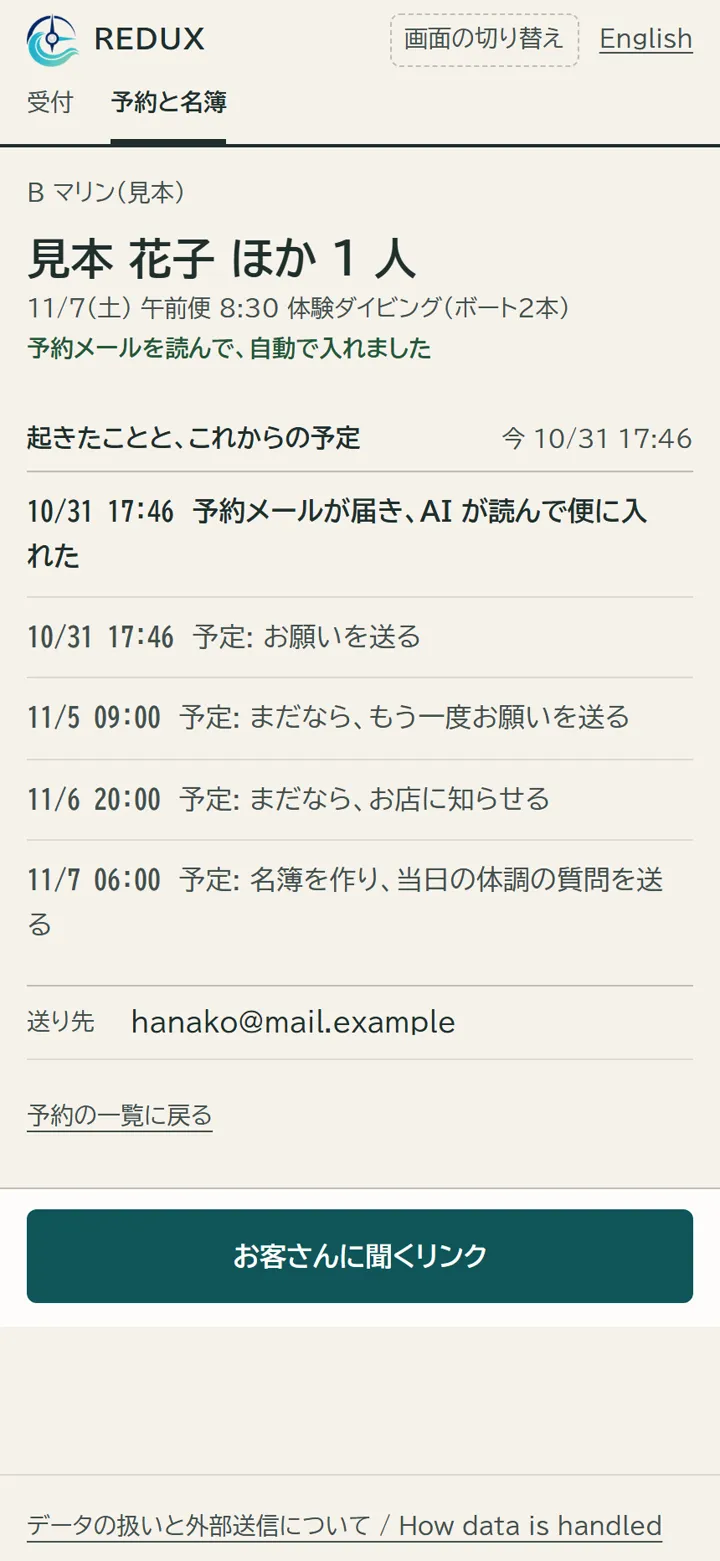
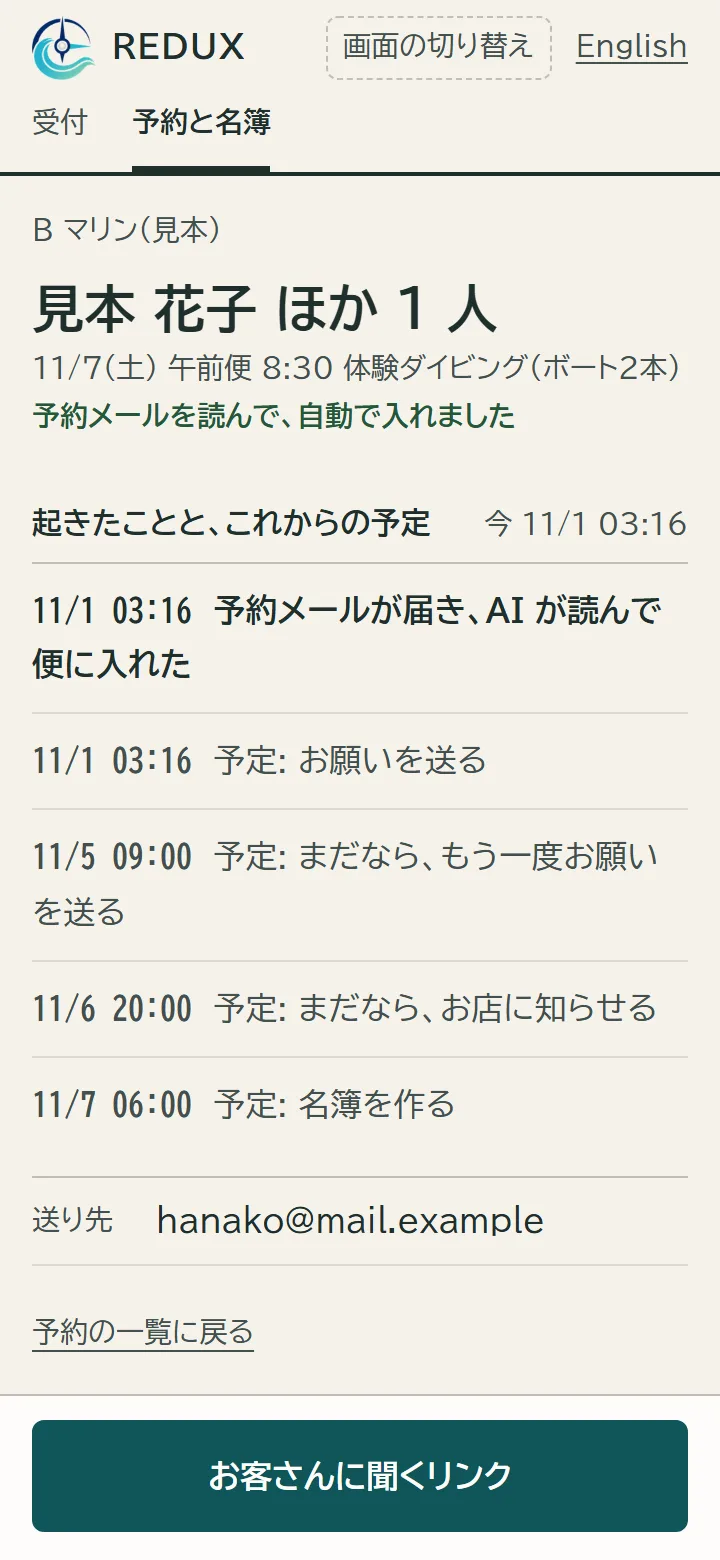
feat: start trial shops with paper health questions and align the shop page
Trial shops were told health questions stay on paper, but the shop page
said guests answer them in the app. tools/shop.mjs paper seeds a new
shop's roster with shop.health = paper; paper shops also refuse SpO2
entries and no longer promise the morning health question or person
links for health. The shop page text and five screenshots now show a
paper shop, and the 30-second CM is off the page until it is re-cut.

diff --git a/shops.html b/shops.html
@@ -21,7 +21,7 @@
   <span class="brand__logo" aria-hidden="true"></span>
   <span class="brand__name">REDUX<small>ダイビングショップの名簿</small></span>
 </div>
-<nav class="lp-nav" aria-label="このページの中"><a href="#steps">使い方</a><a href="#cm">動画</a><a href="#terms">試用の条件</a><a href="#faq">よく聞かれること</a></nav>
+<nav class="lp-nav" aria-label="このページの中"><a href="#steps">使い方</a><a href="#terms">試用の条件</a><a href="#faq">よく聞かれること</a></nav>
 <div class="bar__end"><a class="lp-btn lp-btn--sm" href="mailto:trial@reduxdive.com?subject=REDUX%20%E8%A9%A6%E7%94%A8%E3%82%92%E7%94%B3%E3%81%97%E8%BE%BC%E3%81%BF%E3%81%BE%E3%81%99&amp;body=%E3%81%8A%E5%BA%97%E3%81%AE%E5%90%8D%E5%89%8D%EF%BC%9A%0D%0A%E4%BA%88%E7%B4%84%E3%83%A1%E3%83%BC%E3%83%AB%E3%81%8C%E5%B1%8A%E3%81%8F%E3%82%A2%E3%83%89%E3%83%AC%E3%82%B9%EF%BC%9A%0D%0A">申し込む</a></div>
 </header>
 
@@ -34,7 +34,7 @@
       <p class="lp-lede">予約メールと紙の申込書を AI が読み、条例の 13 項目の名簿に入れます。お店がするのは、印の付いた所を確かめることです。</p>
       <div class="lp-ctas">
         <a class="lp-btn" href="mailto:trial@reduxdive.com?subject=REDUX%20%E8%A9%A6%E7%94%A8%E3%81%AE%E7%94%B3%E3%81%97%E8%BE%BC%E3%81%BF&amp;body=%E3%81%8A%E5%BA%97%E3%81%AE%E5%90%8D%E5%89%8D%EF%BC%9A%0D%0A%E4%BA%88%E7%B4%84%E3%83%A1%E3%83%BC%E3%83%AB%E3%81%8C%E5%B1%8A%E3%81%8F%E3%82%A2%E3%83%89%E3%83%AC%E3%82%B9%EF%BC%9A%0D%0A">メールで試用を申し込む</a>
-        <a class="lp-btn lp-btn--ghost" href="#cm">30 秒の動画を見る</a>
+        <a class="lp-btn lp-btn--ghost" href="#steps">使い方を見る</a>
       </div>
       <p class="lp-send">送るのは、お店の名前と予約メールが届くアドレスだけ。宛先は <span class="lp-addr">trial@reduxdive.com</span></p>
       <p class="lp-terms">試用は <b>0</b> 円・<b>1</b> か月・先着 <b>3</b> 店</p>
@@ -55,7 +55,7 @@
 
 <section class="lp-stats" aria-label="数字で見る">
   <div class="lp-wrap lp-stats__in">
-    <div class="lp-stat"><p class="lp-stat__n">13<small>項目</small></p><p class="lp-stat__h">条例の 13 項目の名簿</p><p class="lp-stat__sub">名前・住所などは AI、潜水場所とガイドはお店、健康はお客さんが入れる（施行規則 第 30 条）</p></div>
+    <div class="lp-stat"><p class="lp-stat__n">13<small>項目</small></p><p class="lp-stat__h">条例の 13 項目の名簿</p><p class="lp-stat__sub">名前・住所などは AI、潜水場所とガイドはお店、健康は今まで通り紙の申込書（施行規則 第 30 条）</p></div>
     <div class="lp-stat"><p class="lp-stat__n">10<small>秒ほど</small></p><p class="lp-stat__h">1 件を AI が読む時間</p><p class="lp-stat__sub">予約メール・C カード・申込書の見本 16 件で 4〜10 秒。読めない所には印が付く</p></div>
     <div class="lp-stat"><p class="lp-stat__n">0<small>円</small></p><p class="lp-stat__h">試用は 1 か月、無料</p><p class="lp-stat__sub">先着 3 店まで。お店が見るのは、印の付いた所だけ</p></div>
   </div>
@@ -78,7 +78,7 @@
     <figure class="lp-shot"><img src="assets/lp/flow.webp" width="360" height="780" loading="lazy" alt="予約メールを AI が読み、便に入れたあとの流れの画面"><figcaption>読んで入れたあとの流れ</figcaption></figure>
   </section>
   <section class="lp-step">
-    <div><h2 class="lp-h2"><span class="lp-n">2</span>足りない所だけ、お客さんに聞く</h2><p>住所や生年月日が足りない人には、REDUX からお願いのメールが届きます。健康の質問は、お客さん本人が答えます。</p></div>
+    <div><h2 class="lp-h2"><span class="lp-n">2</span>足りない所だけ、お客さんに聞く</h2><p>住所や生年月日が足りない人には、REDUX からお願いのメールが届きます。健康の質問は、今まで通り紙の申込書で聞きます。</p></div>
     <figure class="lp-shot"><img src="assets/lp/ask.webp" width="360" height="780" loading="lazy" alt="お客さんがリンクから足りない項目を入れる画面"><figcaption>お客さんが開く画面</figcaption></figure>
   </section>
 </div>
@@ -94,17 +94,13 @@
     <figure class="lp-shot"><img src="assets/lp/paper.webp" width="360" height="780" loading="lazy" alt="条例の 13 項目の潜水者名簿の画面"><figcaption>潜水者名簿（見本の名前）</figcaption></figure>
   </section>
   <section class="lp-step">
-    <div><h2 class="lp-h2"><span class="lp-n">5</span>船の書類も、同じ名簿から</h2><p>乗船者名簿とダイビング計画、診断書が要る人の一覧が、名簿から出ます。同じ名簿から出るので、もう一度書く必要はありません。</p></div>
+    <div><h2 class="lp-h2"><span class="lp-n">5</span>船の書類も、同じ名簿から</h2><p>乗船者名簿とダイビング計画、診断書が要る人の一覧が、名簿から出ます。同じ名簿から出るので、もう一度書く必要はありません。診断書が要る人の一覧は、試用では年齢の決まりから出します。健康の質問で「はい」がある人は、申込書で確かめてください。</p></div>
     <div class="lp-pair">
       <figure class="lp-shot"><img src="assets/lp/manifest.webp" width="360" height="780" loading="lazy" alt="乗船者名簿の画面"><figcaption>乗船者名簿</figcaption></figure>
       <figure class="lp-shot"><img src="assets/lp/medical.webp" width="360" height="780" loading="lazy" alt="診断書が要る人の一覧の画面"><figcaption>診断書の一覧</figcaption></figure>
     </div>
   </section>
 
-  <section class="lp-cm" id="cm">
-    <h2 class="lp-h3">30 秒で見る</h2>
-    <video controls preload="none" playsinline width="1280" height="720" poster="assets/lp/cm-poster.jpg" src="assets/lp/cm.mp4"></video>
-  </section>
 
   <section class="lp-facts" id="terms">
     <h2 class="lp-h3">試用の条件</h2>
@@ -120,10 +116,10 @@
   <section class="lp-faq" id="faq">
     <h2 class="lp-h3">よく聞かれること</h2>
     <details><summary>始めるのに、どれくらい手間がかかりますか</summary><p>予約メールの転送の設定だけです。手順はこちらから送ります。約 10 分です。</p></details>
-    <details><summary>お客さんの健康の答えは、AI に送られますか</summary><p>送りません。健康の答えは名簿に保存しますが、AI には送りません。申込書の写真も、健康の欄を塗ってから送ります。</p></details>
+    <details><summary>お客さんの健康の答えは、AI に送られますか</summary><p>試用では健康の質問を今まで通り紙の申込書で聞き、答えは REDUX に入れないので、AI には送りません。申込書の写真は、健康の欄に黒い四角を置いてから AI に送ります。斜めに撮ると四角がずれることがあるので、送る前にお店が画面で確かめてください。健康の情報が見えたと AI が答えた写真は、その読み取りを使いません。</p></details>
     <details><summary>名簿は誰が見られますか</summary><p>名簿の画面を開けるのは、お店の人だけです。不具合を直すときに、運営者が中身に触れることがあります。</p></details>
     <details><summary>AI が読み間違えたら、どうなりますか</summary><p>自信のない所には印が付き、お店が確かめるまで名簿の値として扱いません。直した所は記録に残ります。</p></details>
-    <details><summary>どの AI を使っていますか</summary><p>米国 Anthropic の AI です。送るのは予約メールの文と申込書の写真で、健康の部分は外してから送ります。</p></details>
+    <details><summary>どの AI を使っていますか</summary><p>米国 Anthropic の AI です。送るのは予約メールの文と申込書の写真です。健康にかかわる所は外したり隠したりしてから送りますが、取りこぼすことがあるので、送る前の画面でお店が確かめてください（確かめ方は上の答えのとおり）。</p></details>
   </section>
 </div>
 

diff --git a/js/auto-flow.js b/js/auto-flow.js
@@ -65,6 +65,9 @@
   const dueText = (due) => `${Number(due.slice(5, 7))}/${Number(due.slice(8, 10))} ${due.slice(11)}`;
   const ADDED_JA = { ai: '予約メールが届き、AI が読んで便に入れた', guest: 'お客さんが自社の予約フォームから入れた', staff: 'お店が予約を入れた', system: '予約が入った' };
   const PLAN_JA = { request: 'お願いを送る', remind: 'まだなら、もう一度お願いを送る', eve: 'まだなら、お店に知らせる', morning: '名簿を作り、当日の体調の質問を送る' };
+  /* 健康の質問を紙で聞くお店は、当日の朝の体調の質問を送らない（roster-auto.js の needToday が空）。予定の文もそれに合わせる */
+  const PAPER_MORNING = { plan: '名簿を作る', done: '名簿を作った' };
+  const planJa = (s, kind) => (kind === 'morning' && R.rosterCore.paperOf(s) ? PAPER_MORNING.plan : PLAN_JA[kind]);
   function outLine(o) {
     const what = A().isPartnersNotice(o) ? 'お店に知らせた: 相乗りのお店の確認待ち（乗り合いの画面で見る）'
       : o.kind === 'staff' ? 'お店に知らせた: 名簿の項目が届いていない人がいる'
@@ -93,7 +96,7 @@
     const lines = items.map(x => (x.kind === 'added'
       ? el('li', { class: 'bk' }, el('span', { class: 'bk__name' }, el('span', { class: 'fig', text: jstOf(x.at) }), `　${ADDED_JA[x.who] || ADDED_JA.system}`))
       : x.kind === 'out' ? outLine(x.out)
-        : el('li', { class: 'bk bk--next' }, el('span', { class: 'bk__name' }, el('span', { class: 'fig', text: dueText(x.due) }), `　予定: ${PLAN_JA[x.job.kind]}`))));
+        : el('li', { class: 'bk bk--next' }, el('span', { class: 'bk__name' }, el('span', { class: 'fig', text: dueText(x.due) }), `　予定: ${planJa(s, x.job.kind)}`))));
     return [
       ...ui.head(people.length > 1 ? `${lead} ほか ${people.length - 1} 人` : lead, trip ? `${ui.md(trip.date)} ${ui.tripLabel(trip)}` : ''),
       el('div', { class: 'sheet' },
@@ -183,7 +186,8 @@
     const late = waiting && j.due <= R.nowJst();
     return boardLine({
       at: withDay ? dueText(j.due) : j.due.slice(11).replace(/^0/, ''), next: waiting && !late,
-      name: waiting ? `${PLAN_JA[j.kind]}（予定）` : j.status === 'skipped' ? 'そろっていたので送らなかった' : DONE_JA[j.kind],
+      name: waiting ? `${planJa(state, j.kind)}（予定）` : j.status === 'skipped' ? 'そろっていたので送らなかった'
+        : j.kind === 'morning' && R.rosterCore.paperOf(state) ? PAPER_MORNING.done : DONE_JA[j.kind],
       st: late ? ['wait', '・待っている'] : waiting ? null : ['ok', j.status === 'skipped' ? '✓ そろった' : '✓ 済んだ'],
       meta: outMeta(state, ui, r), extra: toFlow(ui, r.booking.id)
     });

diff --git a/js/booking.js b/js/booking.js
@@ -239,7 +239,7 @@
     const pick = (on) => () => {
       const r = save('core.setHealthPaper', { paper: on, at: now() });
       notice = r.error ? { kind: 'warn', text: '切り替えられませんでした' }
-        : { kind: 'ok', text: on ? '健康の質問は、紙の申込書で聞きます。お客さんのリンクと自動の連絡では聞きません。' : '健康の質問を、お客さんのリンクで聞きます。' };
+        : { kind: 'ok', text: on ? '健康の質問は、紙の申込書で聞きます。お客さんのリンクと自動の連絡では聞かず、血中酸素もここには入れません。' : '健康の質問を、お客さんのリンクで聞きます。' };
       render();
     };
     const opt = (on, text) => el('button', { class: 'ptab', type: 'button', 'aria-pressed': String(paper === on), text, onclick: pick(on) });
@@ -422,7 +422,7 @@
         el('p', { class: 'sheet__title' }, 'お客さんに送るリンク', el('small', { text: '予約 1 件に 1 つ' })),
         url ? el('p', { class: 'url', text: url }) : null,
         el('p', { class: 'sheet__note', text: real
-          ? `LINE やメールに貼って送ります。お客さんはログインなしで開き、この予約の人の「まだ」の所だけを入れられます。健康の質問は、そこから 1 人ずつのリンクで本人が答えます。${mine && mine.expiresOn ? `${md(mine.expiresOn)} まで使えます。` : ''}作り直すと、前に送ったリンクは開けなくなります。`
+          ? `LINE やメールに貼って送ります。お客さんはログインなしで開き、この予約の人の「まだ」の所だけを入れられます。${C().paperOf(s) ? '健康の質問は、紙の申込書で聞きます。' : '健康の質問は、そこから 1 人ずつのリンクで本人が答えます。'}${mine && mine.expiresOn ? `${md(mine.expiresOn)} まで使えます。` : ''}作り直すと、前に送ったリンクは開けなくなります。`
           : 'LINE やメールに貼って送ります。開いた人は、この予約の人の「まだ」の所だけを入れられます。試作では、この端末の中だけで開けます。' })),
       mine && mine.error ? el('p', { class: 'flag flag--warn', role: 'status', text: mine.error === 404
         ? 'サーバーにまだこの予約が届いていません。少し待ってから、もう一度押してください。' : 'リンクを作れませんでした。もう一度押してください。' }) : null,

diff --git a/js/day-roster.js b/js/day-roster.js
@@ -225,6 +225,7 @@
 
   /* ---------- 血中酸素（県警の体調チェック表。判定は roster-day.js、数値と言葉は data-sipe.js） ---------- */
   function sipeRow(tripId, ui) {
+    if (C().paperOf(R.rosterStore.get())) return null;   // 紙のお店は血中酸素を入れない（roster-day.js の setSpo2）
     const g = D().sipeRows(R.rosterStore.get(), tripId);
     if (!g || !g.rows.length) return null;
     return el('div', { class: 'pickrow pickrow--act' },
@@ -306,6 +307,7 @@
   function renderSpo2({ tripId, ui }) {
     const g = D().sipeRows(R.rosterStore.get(), tripId);
     if (!g) return [...ui.head('血中酸素'), el('p', { class: 'errors', text: 'この便が見つかりません。' }), ui.back()];
+    if (C().paperOf(R.rosterStore.get())) return [...ui.head('血中酸素'), el('p', { class: 'sheet__note', text: '健康の質問を紙の申込書で聞くお店なので、血中酸素はここには入れません。測った数値は紙に残してください。' }), ui.back()];
     const { trip } = g;
     if (tripId !== spo2BadTrip) { spo2Bad = {}; spo2BadTrip = tripId; }
     if (g.shown >= S().SPO2_DIVES) thirdTrip = tripId;   // 3 本目の数値を消しても、入力の途中で欄ごと消さない

diff --git a/js/roster-day.js b/js/roster-day.js
@@ -99,6 +99,8 @@
   function setSpo2(state, { id, dive, side, value, at }) {
     const p = state.people.find(x => x.id === id);
     if (!p) throw new Error(`setSpo2: 人が見つからない (${id})`);
+    /* 健康の質問を紙で聞くお店（試用の形）は、血中酸素も名簿に入れない（健康の数値を預からない。決定ログ 2026-11-01 trial-health-paper） */
+    if (C().paperOf(state)) throw new Error('setSpo2: 紙のお店は血中酸素を入れない');
     const booking = state.bookings.find(b => b.id === p.bookingId);
     if (p.health.heldBy || !booking || C().isPartnerBooking(booking)) throw new Error('setSpo2: 乗り合いの他のお店のお客さんの数値は、この店に入れない');
     if (!Number.isInteger(dive) || dive < 1 || dive > S().SPO2_DIVES) throw new Error(`setSpo2: dive は 1〜${S().SPO2_DIVES} (${dive})`);

diff --git a/spec/architecture.md b/spec/architecture.md
@@ -178,3 +178,4 @@
 | 2026-11-01 reply-to-per-shop | 返信先（Reply-To）はお店の行（shops.reply_to、migration 0010）に持つ。行が空のとき、一覧が 1 店だけなら secret の REPLY_TO、2 店以上なら付けない。形の合わない値は空に読む（行は捨てない） | 全体の点検 2026-11-01（ザク HIGH）。REPLY_TO を全店に付けていたので、2 店目からお客さんの返信（体調を含む）が別のお店に届いた。却下: 空の店も REPLY_TO に落とす（他店に流れる）・形が合わない行を例外にする（打ち間違いで全店が止まる） | 有: test/shops.test.mjs（返信先の選び方・2 店の Cron）・test/d1-sql.test.mjs（0010 と tools の SQL） |
 | 2026-11-01 health-counts-failures | Cron は 1 回ごとの失敗数（failed・backupFailed）を cron:last に書き、公開の /api/health は 0 でない間 503（本文は数と why だけ）。全店が失敗した回も数を書く。落ちた回は書かない | 全体の点検 2026-11-01（ジン・シュウ HIGH）。一部の失敗でも印が新しくなり、外の見張りが鳴らなかった。却下: 連続 N 回で 503（1 店の運用で遅れる）・失敗した店の名前を本文に出す（公開の口に出さない） | 有: test/backup.test.mjs（health の 4 本と cronHealth） |
 | 2026-11-01 offboard-tool | 試用をやめたお店の後始末は tools/offboard.mjs が CSV・D1 の消す文・KV の消すキーを出し、人が実行する。shops の行を最初に消し、daily_counts の api は鍵の id 経由で消す。D1 の Time Travel（最大 30 日）は消せないので、やめた日のうちに消す（そうすれば 30 日で控えも全部なくなり、shops.html の約束に収まる） | 全体の点検 2026-11-01（ジン・シュウ・法令 HIGH）。約束の CSV 渡しと 30 日の消去を実行する道具が無かった。出すだけは restore.mjs・shop.mjs の流儀で、消す操作は取り消せない。却下: 道具が wrangler を直接呼ぶ・shops の行を最後に消す（Cron が警報を出し KV にまた書く） | 有: test/offboard.test.mjs（覆い・2 店の SQL・KV の消すキー） |
+| 2026-11-01 trial-health-paper | 試用のお店は健康の質問を紙の申込書で始める。tools/shop.mjs paper が、名簿がまだ無いお店に紙の印（shop.health = paper）と切り替えの記録だけの名簿を置く（ON CONFLICT DO NOTHING で、もうある名簿は消さない）。見本の default には使わない。紙のお店では、お店が測る血中酸素も名簿に入れない（roster-day.js の setSpo2 が断り、画面は欄を出さない。健康の数値を預からないため）。shops.html の文と絵（名簿・お客さんの画面・診断書・流れ）も紙のお店の設定で撮り直した（健康の答えは REDUX に入れない）。予定の文（auto-flow.js）と予約のリンクの説明（booking.js）も紙のお店では健康を聞かない言い方にした。30 秒の CM は c4 にアプリで健康を聞く画面が映るので、紙のお店の画面で作り直すまで shops.html から外した（メイ FAIL 4 回 → PASS） | 全体の点検 2026-11-01（法令）。沖縄 4 店には「健康は扱わず紙で」と案内したのに、案内ページは「お客さん本人がアプリで答え名簿に保存」と書いていた。健康の答え（要配慮個人情報）を預からなければ、覚書・同意の重さも下がる。Yosuke が「紙で始める」を選んだ。却下: 製品の既定を紙にする（見本のデモがアプリで聞けなくなる）・受け入れの手順で画面から切り替えるだけ（忘れると最初の予約から健康を聞く） | 有: test/d1-sql.test.mjs（試用のお店は健康を紙で始める）・test/health-paper.test.mjs（血中酸素）・test/build-site.test.mjs（拒否語） |

diff --git a/docs/deploy.md b/docs/deploy.md
@@ -188,6 +188,16 @@ npx wrangler@4.151.0 secret put ACCESS_AUD
 
 確かめ方（2026-10-28 に通した）: `ask.reduxdive.com/ask` が 200／MAIL_SENDERS のアドレスから `inbox@reduxdive.com` に予約メールを送る → 名簿に入り予定が 4 つできる → 次の Cron でお願いのメールが届く／Cron のあとに BACKUP の KV に `day:<お店>:<日付>` ができる。届いた記録は GraphQL の `emailRoutingAdaptive` で見られる
 
+## 9b. 試用のお店を受け入れる（2026-11-01。健康は紙で始める）
+
+試用のお店は、健康の質問を今まで通り紙の申込書で聞く（shops.html の約束、決定ログ 2026-11-01 trial-health-paper）。名簿を作る前に紙の印を付けておくので、順番を守る。
+1. **2 店目からは先に**、いまあるお店の返信先を入れる: `node tools/shop.mjs set-reply-to --id <店> --reply-to <アドレス>`（入れないと、2 店になった時点で Reply-To が外れる）
+2. お店を足す: `node tools/shop.mjs add --id <店> --name <名前> --member <スタッフのメール> --inbox <店>@reduxdive.com --reply-to <お店のアドレス>`。11/9 のデモを続けるなら `keep-sample` の行も足す（1 店目を足すと見本は誰からも見えなくなる）
+3. 紙の名簿で始める: `node tools/shop.mjs paper --id <店> --name <名前>`。名簿がまだ無いときだけ効く（もうあるお店は、予約の一覧の「健康の質問（お店ごと）」で切り替える）
+4. 1〜3 の文を D1 のコンソール（redux-rosters）に 1 文ずつ貼って Execute。`SELECT shop, json_extract(state, '$.shop.health') FROM rosters;` でそのお店が paper か確かめる
+5. ★ Access の Policy と secret `ALLOWED_EMAILS` にスタッフを足す（ALLOWED_EMAILS は丸ごと上書きなので、今の値に足した全体を入れる。権限の付与なので Yosuke が画面で）
+6. ★ Email Routing に `<店>@reduxdive.com` → お店の Worker の規則を足し、お店に予約メールの転送の手順を送る
+
 ## 10. 試用をやめたお店の後始末（shops.html の約束「やめるとき: 名簿を CSV でお渡しし、30 日以内に、こちらの控えも含めて消します」）
 
 - 道具は `tools/offboard.mjs`。本番の D1・KV にはつながず、CSV と、消す文・消すキーの一覧を出すだけ。消すのは取り消せないので、出た物を人（Yosuke）が確かめて実行する（tools/shop.mjs・restore.mjs と同じ）

diff --git a/plan/server.md b/plan/server.md
@@ -71,7 +71,7 @@ CREATE TABLE rosters (
 - 一覧が空・表が無いときは 503（2026-10-28 shops-fail-closed。全員が 1 店の名簿を共有しない）。env の `SINGLE_SHOP`（お店の id）を書いたときだけ、その 1 店（今までの default）で動く。2 店が同じ受け口・メール・サイトを持つ一覧も 503
 - 判定は worker/shop-core.mjs（core）、読み出しは worker/shop-db.mjs。テストは test/shops.test.mjs
 
-お店を足す（今は D1 のコンソールで。画面は後で）。`node tools/shop.mjs add --id … --name … --member …` が値を確かめて 1 文を作る（remove・keep-sample も）:
+お店を足す（今は D1 のコンソールで。画面は後で）。`node tools/shop.mjs add --id … --name … --member …` が値を確かめて 1 文を作る（set-reply-to・paper・remove・keep-sample も。試用のお店の受け入れの順は docs/deploy.md の 9b）:
 ```sql
 INSERT INTO shops (id, name, members, sites, inbox, senders) VALUES ('shop-a', 'A ダイブ', '["staff@example.com"]', '["https://shop-a.example.com"]', '', '[]');
 ```
